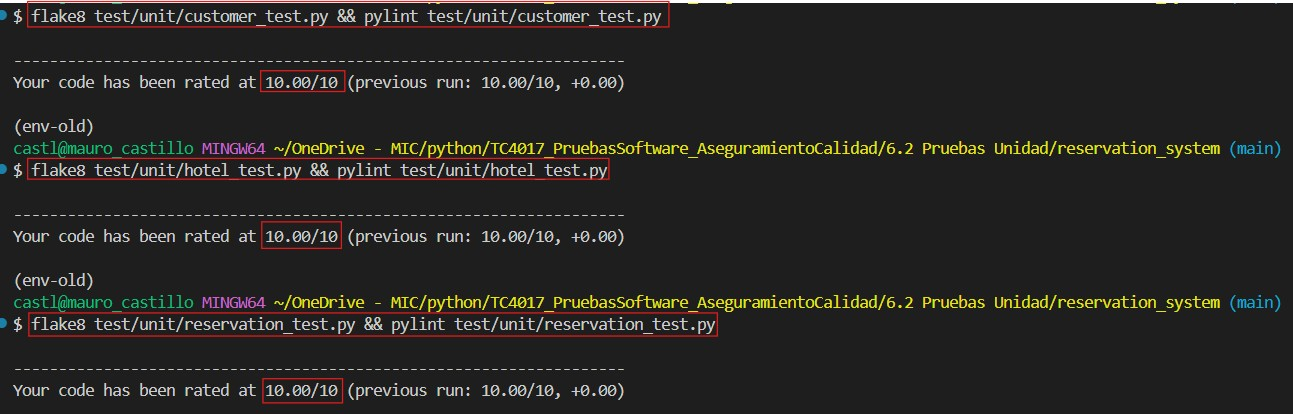
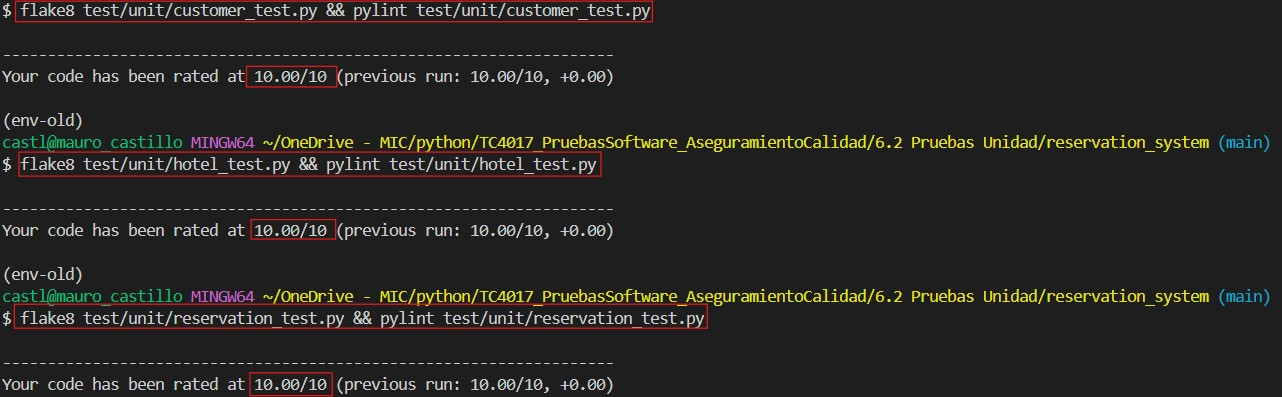
test(coverage): exceed 85% line coverage per class, update lint results and new coverage result file
- Added mocked tests for IOError handling and file existence checks across all entities.
- Implemented negative test cases for missing IDs, empty strings, and failed reservations.
- Ensured customer.py, hotel.py, and reservation.py individually surpass 85% coverage to meet strict rubric criteria.
- Updated flake8 and pylint execution reports in the results/ directory.
- Added coverage percentage results in the results/ directory.

diff --git a/6.2 Pruebas Unidad/reservation_system/test/unit/reservation_test.py b/6.2 Pruebas Unidad/reservation_system/test/unit/reservation_test.py
@@ -59,6 +59,47 @@ class TestReservation(unittest.TestCase):
         # Invalid hotel ID
         self.assertRaises(ValueError, Reservation, 100, 1, -5)
 
+    @patch("os.path.exists", return_value=False)
+    def test_get_all_file_not_exists(self, _mock_exists):
+        """Test get_all when file does not exist."""
+        self.assertEqual(Reservation.get_all(), [])
+
+    @patch("builtins.open", side_effect=IOError)
+    @patch("os.path.exists", return_value=True)
+    def test_get_all_io_error(self, _mock_exists, _mock_file):
+        """Test get_all handles IOError."""
+        self.assertEqual(Reservation.get_all(), [])
+
+    @patch("builtins.open", side_effect=IOError)
+    @patch("os.makedirs")
+    def test_save_all_io_error(self, _mock_makedirs, _mock_file):
+        """Test save_all handles IOError."""
+        try:
+            Reservation.save_all([self.reservation])
+        except Exception:  # pylint: disable=broad-exception-caught
+            self.fail("save_all raised Exception unexpectedly on IOError")
+
+    @patch("src.reservation.Reservation.get_all")
+    def test_create_duplicate_reservation(self, mock_get):
+        """Test create_reservation with duplicate ID."""
+        mock_get.return_value = [self.reservation]
+        self.assertFalse(Reservation.create_reservation(100, 1, 10))
+
+    @patch("src.reservation.Reservation.get_all", return_value=[])
+    @patch("src.customer.Customer.get_all")
+    @patch("src.hotel.Hotel.reserve_room", return_value=False)
+    def test_create_reservation_hotel_fails(
+        self, _mock_hotel, mock_cust_get, _mock_res_get
+    ):
+        """Test create_reservation when hotel reservation fails."""
+        mock_cust_get.return_value = [Customer(1, "John", "john@email.com")]
+        self.assertFalse(Reservation.create_reservation(101, 1, 10))
+
+    @patch("src.reservation.Reservation.get_all", return_value=[])
+    def test_cancel_non_existent_reservation(self, _mock_get):
+        """Test cancel_reservation with non-existent ID."""
+        self.assertFalse(Reservation.cancel_reservation(999))
+
 
 if __name__ == "__main__":
     unittest.main()

diff --git a/6.2 Pruebas Unidad/reservation_system/test/unit/customer_test.py b/6.2 Pruebas Unidad/reservation_system/test/unit/customer_test.py
@@ -70,6 +70,40 @@ class TestCustomer(unittest.TestCase):
             ValueError, Customer, 0, "John", "john@email.com"
             )
 
+    def test_empty_name(self):
+        """Test that empty name raises ValueError."""
+        self.assertRaises(ValueError, Customer, 1, "", "valid@email.com")
+
+    @patch("os.path.exists", return_value=False)
+    def test_get_all_file_not_exists(self, _mock_exists):
+        """Test get_all when file does not exist."""
+        self.assertEqual(Customer.get_all(), [])
+
+    @patch("builtins.open", side_effect=IOError)
+    @patch("os.path.exists", return_value=True)
+    def test_get_all_io_error(self, _mock_exists, _mock_file):
+        """Test get_all handles IOError."""
+        self.assertEqual(Customer.get_all(), [])
+
+    @patch("builtins.open", side_effect=IOError)
+    @patch("os.makedirs")
+    def test_save_all_io_error(self, _mock_makedirs, _mock_file):
+        """Test save_all handles IOError."""
+        try:
+            Customer.save_all([self.customer])
+        except Exception:  # pylint: disable=broad-exception-caught
+            self.fail("save_all raised Exception unexpectedly on IOError")
+
+    @patch("src.customer.Customer.get_all", return_value=[])
+    def test_delete_non_existent_customer(self, _mock_get):
+        """Test delete_customer with non-existent ID."""
+        self.assertFalse(Customer.delete_customer(999))
+
+    @patch("src.customer.Customer.get_all", return_value=[])
+    def test_modify_non_existent_customer(self, _mock_get):
+        """Test modify_customer with non-existent ID."""
+        self.assertFalse(Customer.modify_customer(999, name="New"))
+
 
 if __name__ == "__main__":
     unittest.main()

diff --git a/6.2 Pruebas Unidad/reservation_system/test/unit/hotel_test.py b/6.2 Pruebas Unidad/reservation_system/test/unit/hotel_test.py
@@ -124,6 +124,35 @@ class TestHotel(unittest.TestCase):
         self.assertFalse(result)
         self.assertFalse(mock_save.called)
 
+    def test_empty_name_city(self):
+        """Test empty name or city raises ValueError."""
+        self.assertRaises(ValueError, Hotel, 1, "", "City", 10)
+        self.assertRaises(ValueError, Hotel, 1, "Name", "", 10)
+
+    @patch("builtins.open", side_effect=IOError)
+    @patch("os.makedirs")
+    def test_save_all_io_error(self, _mock_makedirs, _mock_file):
+        """Test save_all handles IOError."""
+        try:
+            Hotel.save_all([self.hotel])
+        except Exception:  # pylint: disable=broad-exception-caught
+            self.fail("save_all raised Exception unexpectedly on IOError")
+
+    @patch("src.hotel.Hotel.get_all", return_value=[])
+    def test_modify_non_existent_hotel(self, _mock_get):
+        """Test modify_hotel with non-existent ID."""
+        self.assertFalse(Hotel.modify_hotel(999, name="New Name"))
+
+    @patch("src.hotel.Hotel.get_all", return_value=[])
+    def test_reserve_room_non_existent_hotel(self, _mock_get):
+        """Test reserve_room with non-existent ID."""
+        self.assertFalse(Hotel.reserve_room(999))
+
+    @patch("src.hotel.Hotel.get_all", return_value=[])
+    def test_cancel_reservation_non_existent_hotel(self, _mock_get):
+        """Test cancel_reservation with non-existent ID."""
+        self.assertFalse(Hotel.cancel_reservation(999))
+
 
 if __name__ == "__main__":
     unittest.main()
